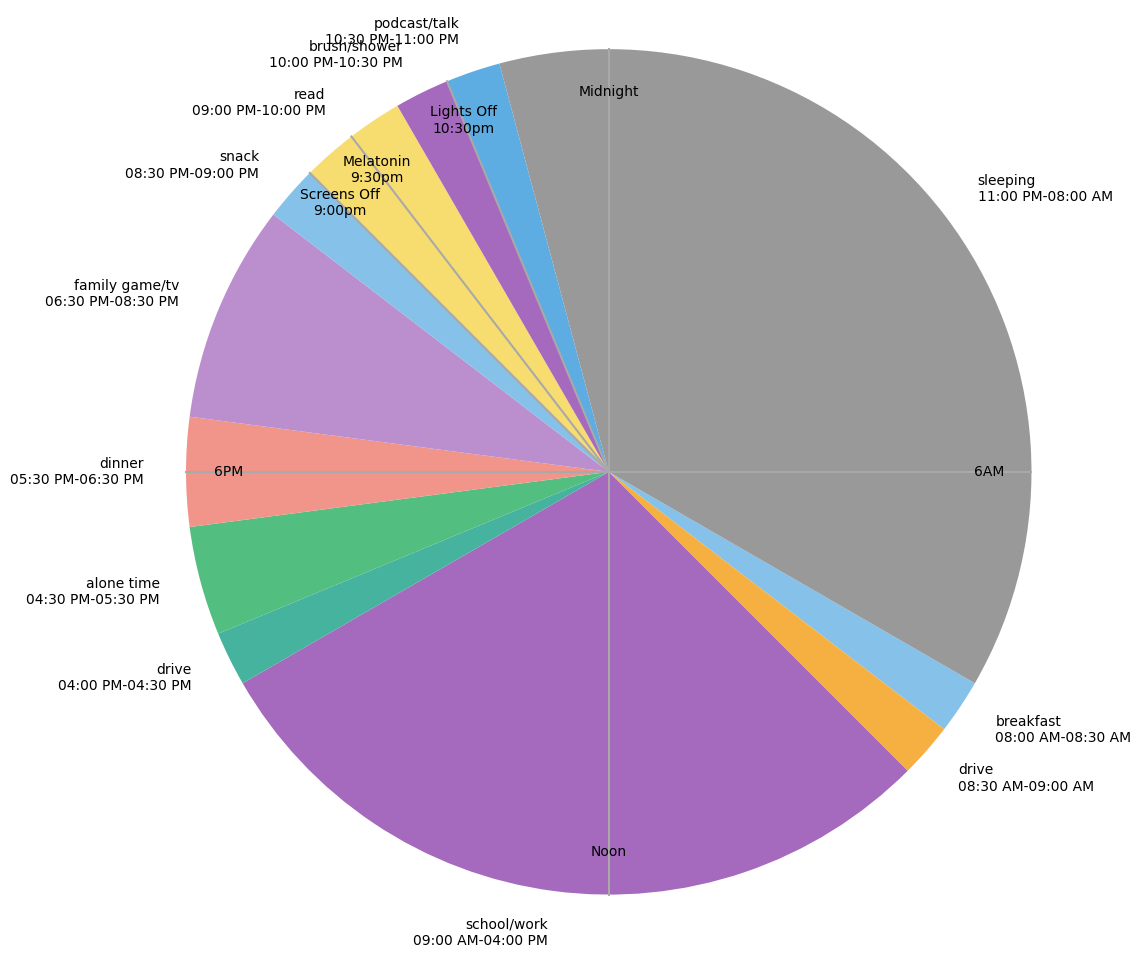
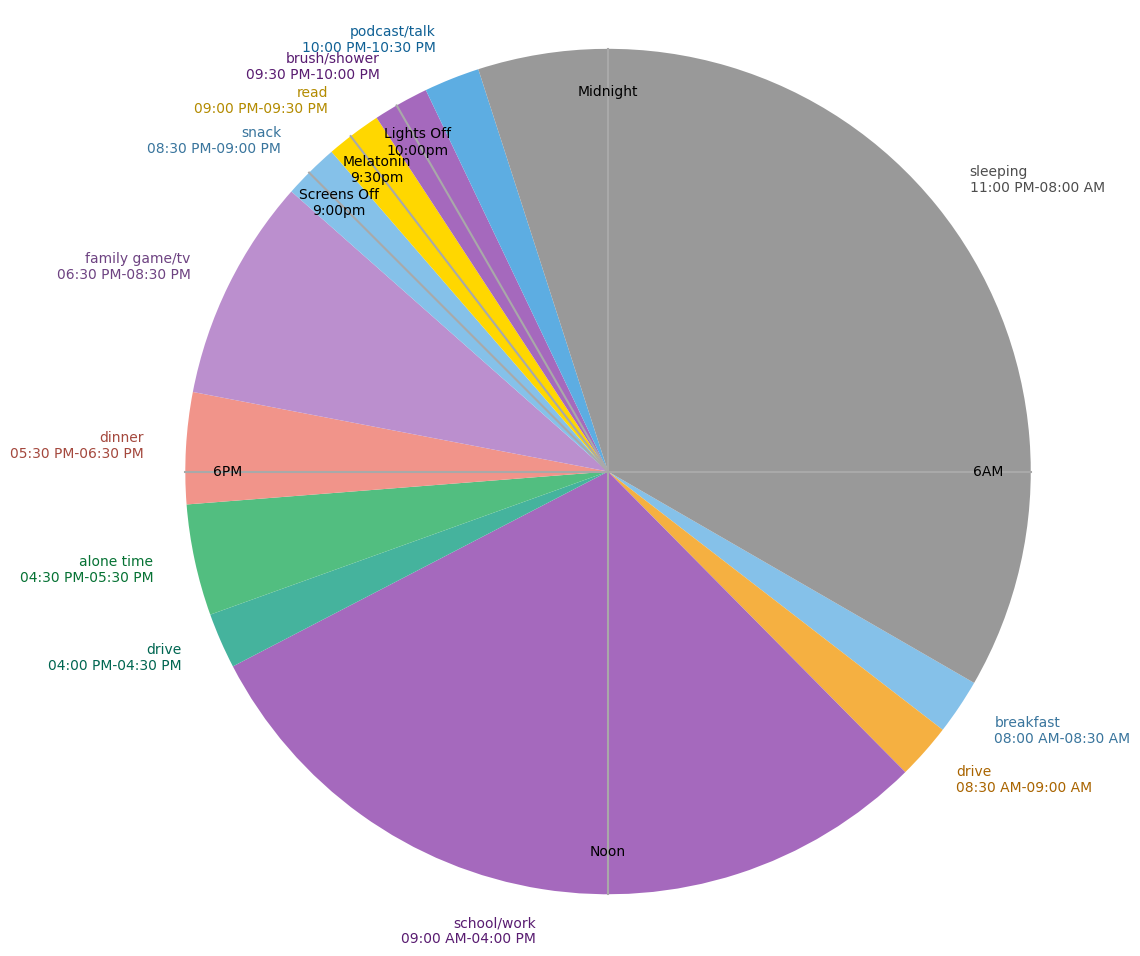
remove duration column, color-coordinate labels, add Actions to regenerate img

diff --git a/pieday.py b/pieday.py
@@ -1,7 +1,8 @@
-from datetime import datetime
+from datetime import datetime, timedelta
 import csv
 import math
 import matplotlib.pyplot as plt
+from matplotlib import colors as mcolors
 
 activities = []
 
@@ -14,14 +15,17 @@ with open('pieday.csv', 'r') as file:
         activity_name = row[0]
         start_time = datetime.strptime(row[1], '%I:%M %p')
         stop_time = datetime.strptime(row[2], '%I:%M %p')
-        duration = float(row[3])
+        # If stop_time is earlier than start_time, add one day to stop_time
+        if stop_time < start_time:
+            stop_time += timedelta(days=1)
+        duration = (stop_time - start_time) / timedelta(hours=1)  # Calculate duration in hours
         activities.append((start_time, stop_time, activity_name, duration))
 
 # Sort activities by start time
 activities.sort()
 
 # Colors for each slice
-colors = ['#85C1E9', '#F5B041', '#A569BD', '#45B39D', '#52BE80', '#F1948A', '#BB8FCE', '#85C1E9', '#F7DC6F', '#A569BD', '#5DADE2', '#999999']
+colors = ['#85C1E9', '#F5B041', '#A569BD', '#45B39D', '#52BE80', '#F1948A', '#BB8FCE', '#85C1E9', '#FFD700', '#A569BD', '#5DADE2', '#999999']
 
 # Labels with activity name and start-stop times
 labels = [f'{name}\n{start_time.strftime("%I:%M %p")}-{stop_time.strftime("%I:%M %p")}' for start_time, stop_time, name, _ in activities]
@@ -33,11 +37,18 @@ sizes = [duration for _, _, _, duration in activities]
 fig, ax = plt.subplots(figsize=(12, 12))
 
 # Adjust start angle to position midnight at the top, and draw the pie chart in a counterclockwise direction
-ax.pie(sizes, colors=colors, startangle=-30, counterclock=False, labels=labels, labeldistance=1.1)
+patches, texts = ax.pie(sizes, colors=colors, startangle=-30, counterclock=False, labels=labels, labeldistance=1.1)
+
+# Set the color of each label to match its corresponding pie slice
+for text, color in zip(texts, colors):
+    darker_color = mcolors.to_rgb(color)
+    darker_color = [max(0, c - 0.3) for c in darker_color]  # Darken color by 0.3
+    text.set_color(darker_color)
+
 ax.axis('equal')  # Equal aspect ratio ensures that pie is drawn as a circle.
 
 # Add lines and text for midnight, 6am, noon, 6pm, and 9pm
-for hour, label in zip([0, 6, 12, 18, 15, 14.5, 13.5], ['Noon', '6AM', 'Midnight', '6PM', 'Screens Off\n9:00pm', 'Melatonin\n9:30pm', 'Lights Off\n10:30pm']):
+for hour, label in zip([0, 6, 12, 18, 15, 14.5, 14], ['Noon', '6AM', 'Midnight', '6PM', 'Screens Off\n9:00pm', 'Melatonin\n9:30pm', 'Lights Off\n10:00pm']):
     angle = (hour/24)*360 - 90  # Convert hours to angle in degrees, subtract 90 to start at the top
     angle = math.radians(angle)  # Convert angle to radians
     x = math.cos(angle)  # Calculate x coordinate
